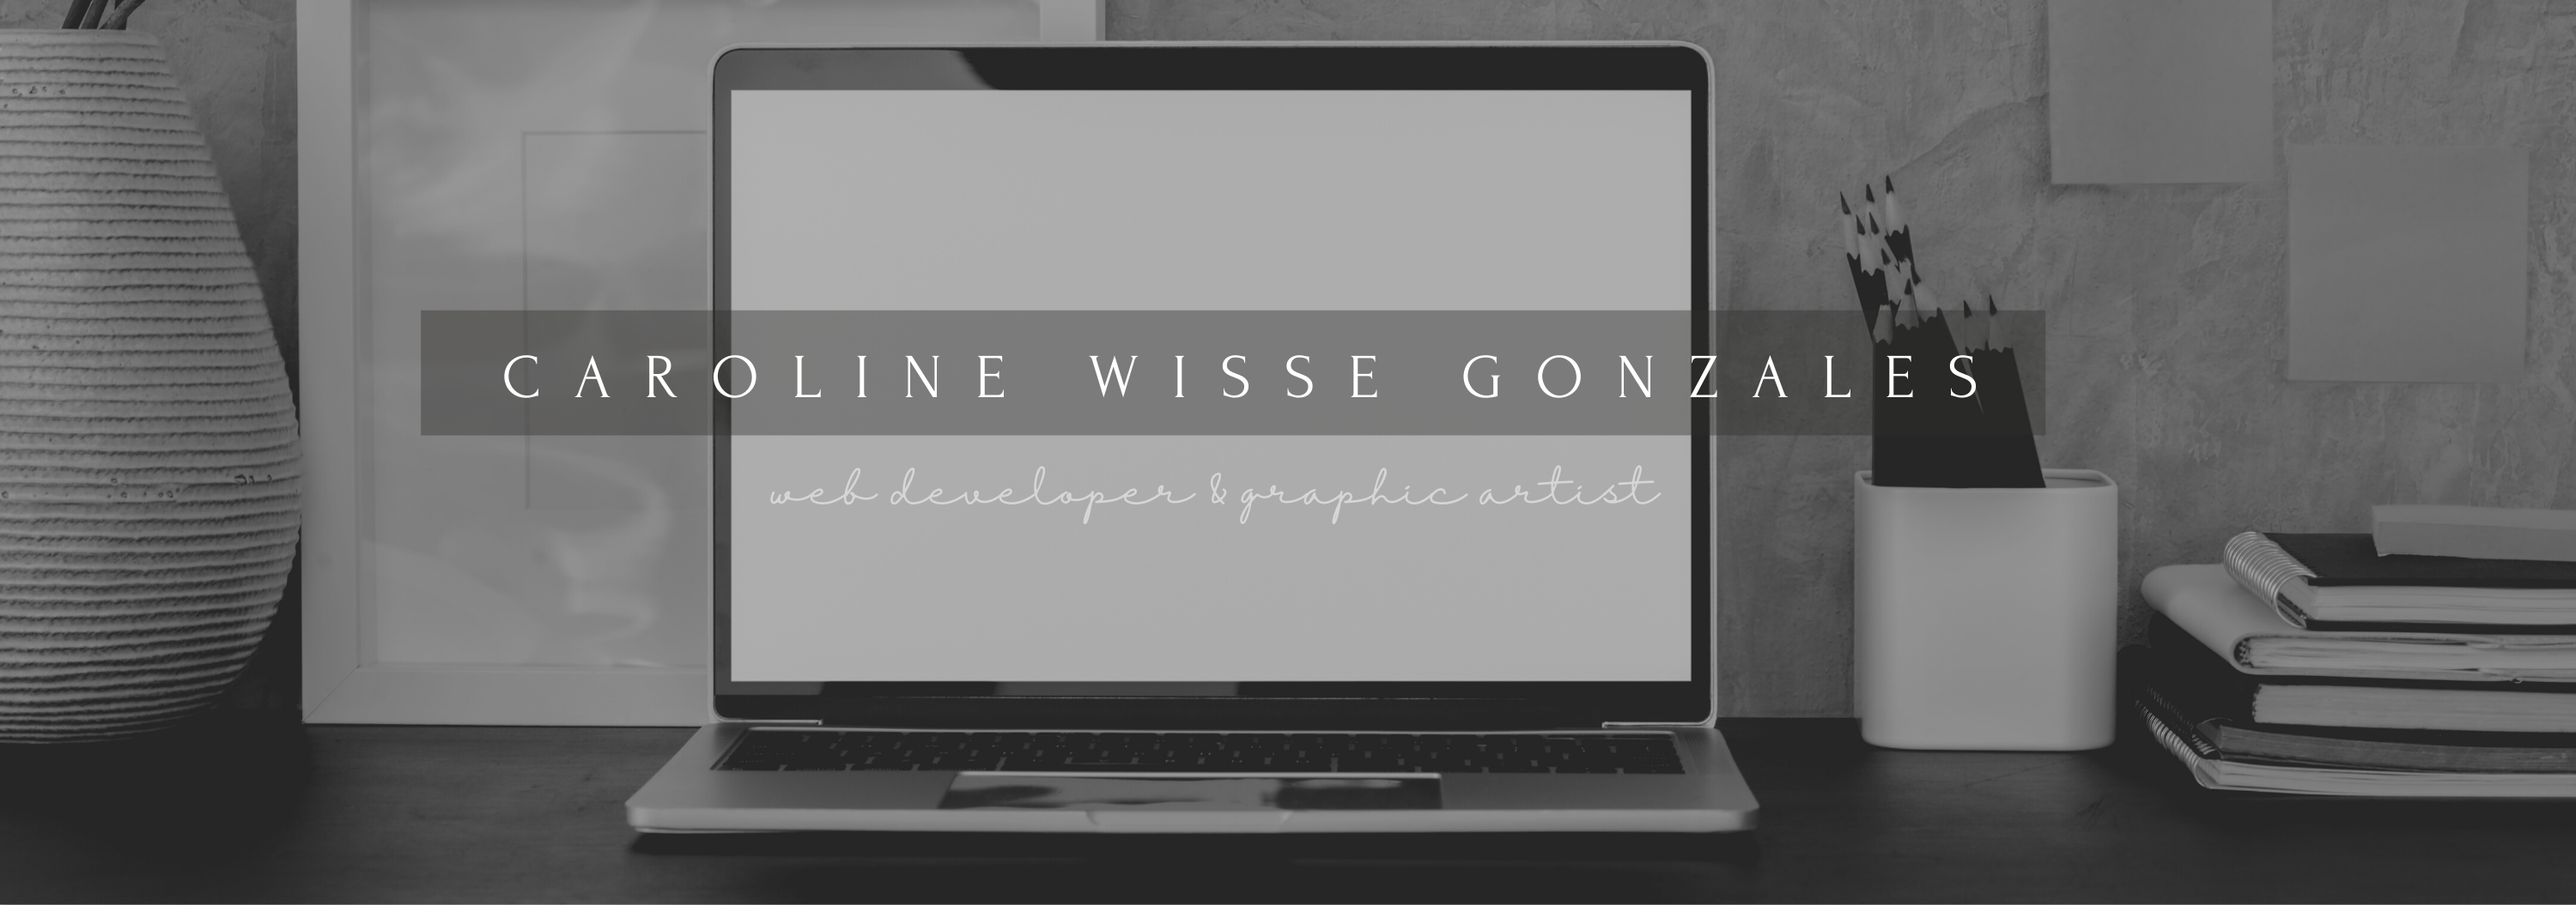
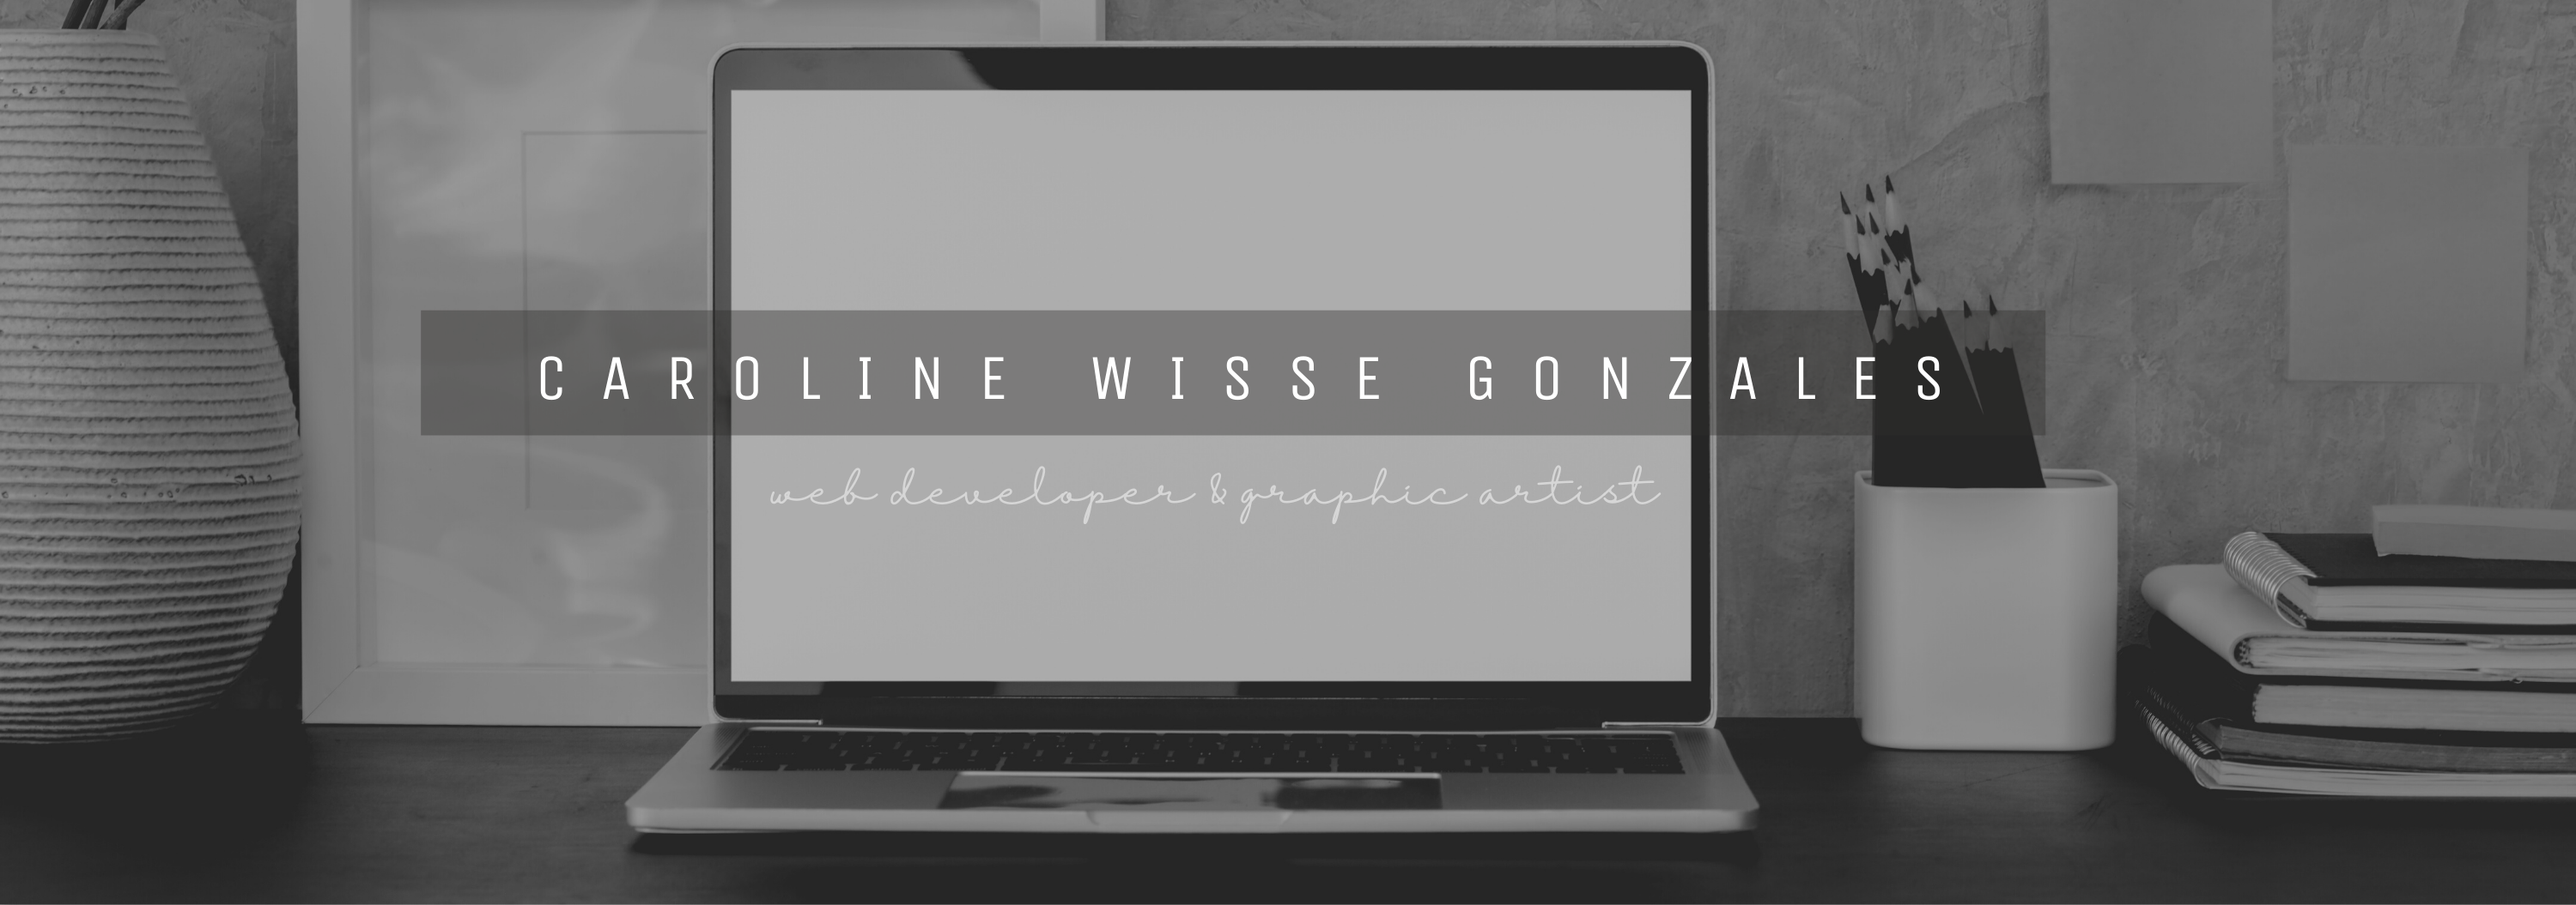
final edit

Changed region(s): [[0.186, 0.3943, 0.775, 0.455]]

diff --git a/index.html b/index.html
@@ -8,7 +8,7 @@
   <link rel="stylesheet" href="https://stackpath.bootstrapcdn.com/bootstrap/4.5.2/css/bootstrap.min.css" integrity="sha384-JcKb8q3iqJ61gNV9KGb8thSsNjpSL0n8PARn9HuZOnIxN0hoP+VmmDGMN5t9UJ0Z" crossorigin="anonymous">
   <link rel="stylesheet" href="https://cdnjs.cloudflare.com/ajax/libs/slick-carousel/1.8.1/slick.min.css" integrity="sha512-yHknP1/AwR+yx26cB1y0cjvQUMvEa2PFzt1c9LlS4pRQ5NOTZFWbhBig+X9G9eYW/8m0/4OXNx8pxJ6z57x0dw==" crossorigin="anonymous" />
   <link rel="stylesheet" href="https://cdnjs.cloudflare.com/ajax/libs/slick-carousel/1.8.1/slick-theme.min.css" integrity="sha512-17EgCFERpgZKcm0j0fEq1YCJuyAWdz9KUtv1EjVuaOz8pDnh/0nZxmU6BBXwaaxqoi9PQXnRWqlcDB027hgv9A==" crossorigin="anonymous" />
-  <link href="https://fonts.googleapis.com/css2?family=EB+Garamond&family=Forum&display=swap" rel="stylesheet">
+  <link href="https://fonts.googleapis.com/css?family=Crimson+Text|Unica+One" rel="stylesheet">
   
   <script src="https://code.jquery.com/jquery-3.5.1.min.js" integrity="sha256-9/aliU8dGd2tb6OSsuzixeV4y/faTqgFtohetphbbj0=" crossorigin="anonymous"></script>
 </head>
@@ -35,7 +35,7 @@
     <div class="card-grid">
       <div class="card p-3 headshot" style="text-align: center;">
         <img src="images/headshot.jpg" class="card-img-top" alt="...">
-        <h1 class="card-title">ABOUT ME</h1>
+        <h1 class="aboutHeader">ABOUT ME</h1>
           <p class="card-text">I am not your typical web developer - As a Wake Forest graduate with a Bachelor's in Studio Art and a former professional wedding cake decorator, I have taken a unique path to the tech world. I have spent the past two years immersed in everything code - From online tutorials and HackerRank problems to the creation of my own Web Design business, I have made it my goal to jump into the deep end of programming. This winter, I joined a coding Bootcamp and am more equipped than ever to take my next step into professional web development.</p>
           <div class="row links">
             <div class="column social">
@@ -51,7 +51,7 @@
       </div>
       <div class="card p-3 resume">
         <div class="resume-text">
-        <h1 class="card-title">EXPERIENCE</h1>
+        <h1>EXPERIENCE</h1>
         <br>
         <div class="container">
           <p class="card-text">
@@ -96,10 +96,12 @@
 
 
     <!-- Skills Section -->
+    
+        <section id="slideshow" class="skills">
+          <h1 class="skillHeader">My Skills</h1>
 
-        <section id="slideshow">
-          <div class="slick autoplay skills">       
-              
+          <div class="slick autoplay">       
+
           <div>
             <img class="sliderIcon" data-toggle="tooltip" data-placement="bottom" title="WordPress" src="Images/blue-wordpress-logo.png">
           </div>

diff --git a/portfolio.js b/portfolio.js
@@ -1,13 +1,11 @@
-// When the user scrolls the page, execute myFunction
+//sticky navbar
+
 window.onscroll = function() {myFunction()};
 
-// Get the navbar
 var navbar = document.getElementById("navbar");
 
-// Get the offset position of the navbar
-var sticky = navbar.offsetTop;
+var sticky = navbar.offsetTop +5;
 
-// Add the sticky class to the navbar when you reach its scroll position. Remove "sticky" when you leave the scroll position
 function myFunction() {
   if (window.pageYOffset >= sticky) {
     navbar.classList.add("sticky")

diff --git a/style.css b/style.css
@@ -22,8 +22,17 @@
 
 h1{
   text-align: center;
-  font-family: 'Forum', cursive;
+  Font-Family: 'Unica One', Cursive;
   font-weight: bold;
+}
+
+.aboutHeader{
+  padding-top: .5em;
+}
+
+
+.skillHeader{
+  padding-bottom: 1em;
 }
 
 .card-title{
@@ -36,11 +45,13 @@ h1{
 }
 
 h5{
-  font-family: 'Forum', cursive;
+  Font-Family: 'Unica One', Cursive;
+
 }
 
 body {
-  font-family: 'EB Garamond', serif;
+  Font-Family: 'Crimson Text', Serif;
+
 }
 
 .content {
